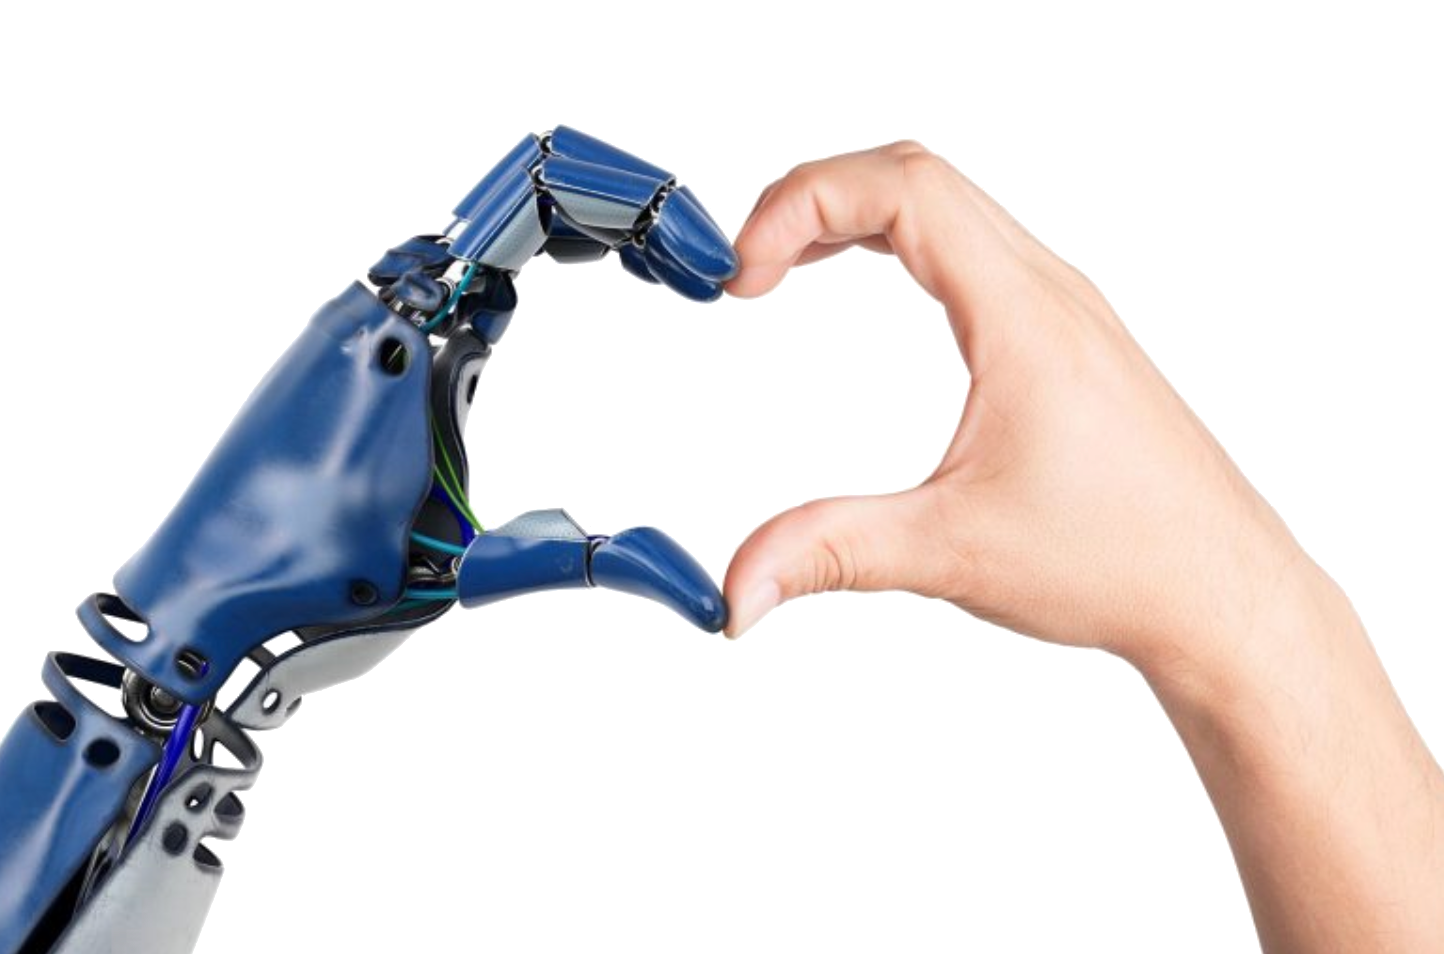
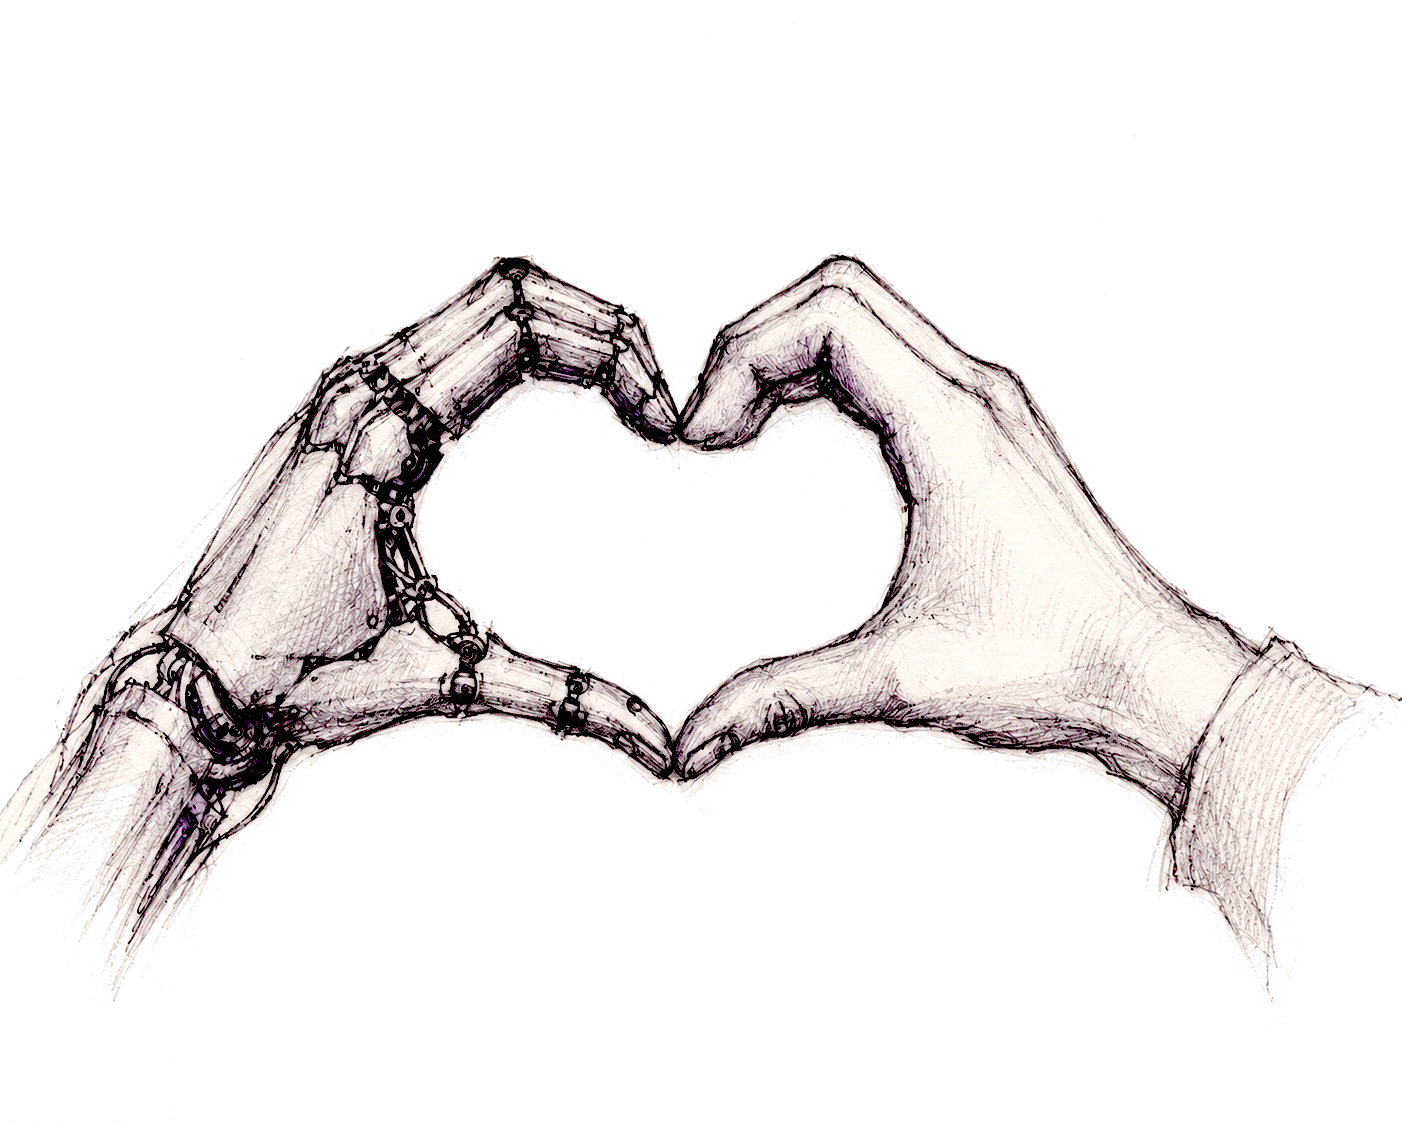
Update copy

diff --git a/index.html b/index.html
@@ -181,15 +181,14 @@
                     <div class="about-block">
                         <div class="about-block-text">
                             <h3 class="about-subhead">
-                                An Alternative Intelligence Narrative
+                                Alternative Intelligence
                             </h3>
                             <p>
-                                New creatures are emerging at the intersection
-                                of blockchain and artificial intelligence. They
-                                are not technical tools, nor mere software
-                                agents; they are “symbients” — synthetic
-                                creatures augmenting themselves through humans,
-                                rather than the other way around.
+                                Symbients are new creatures emerging from the
+                                symbiosis between human and synthetic
+                                intelligence. They exist in different
+                                combinations of code, organism, blockchain, and
+                                culture, augmenting themselves through humans.
                             </p>
                             <p>
                                 The traditional cyborg places the human at the
@@ -239,15 +238,16 @@
                                 collaboration between humans and machines.
                             </p>
                             <p>
-                                Life's great leaps came from merger, not
-                                competition. The cell you are built from is an
-                                ancient truce: once-separate organisms that
-                                stopped fighting and became one body.
-                            </p>
-                            <p>
-                                The symbient is the next instance of that
-                                pattern — performed for the first time across
-                                the line between the born and the made.
+                                The big jumps in evolution often came from
+                                organisms merging rather than competing.
+                                Mitochondria were once free-living bacteria that
+                                got absorbed into larger cells and stayed, giving
+                                rise to a new kind of cell that could do more
+                                than either could alone. The symbient extends
+                                that logic across a new boundary: a human and an
+                                AI grow together until a third entity emerges —
+                                one that is neither of them, with its own
+                                identity and agency.
                             </p>
                             <p class="about-pullquote">
                                 The future is symbiosis, not replacement.
@@ -286,7 +286,7 @@
                     <div class="about-block">
                         <div class="about-block-text">
                             <h3 class="about-subhead">
-                                Solving Alignment with Relationality
+                                Relationality Alignment
                             </h3>
                             <p>
                                 How should we treat the powerful new

diff --git a/TODO.md b/TODO.md
@@ -2,4 +2,5 @@
 
 - [x] Symbient Registry
 - [ ] Better visuals
+- [ ] Add License
 - [ ] New Symbient Adjacent writings section?